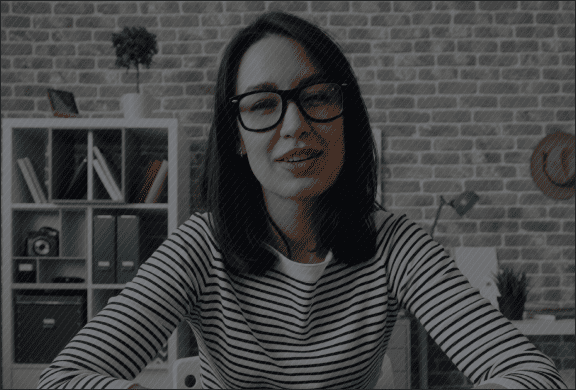
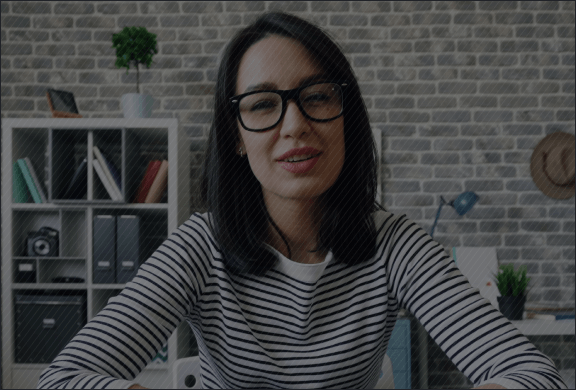
Add ARIA labels to case study links
Improve accessibility by adding aria-label attributes to the three 'Read More' buttons for Case Study One/Two/Three in home.html. Also updates the client testimonials image asset at assets/images/sections/global-images/client-testimonials-img-01.png (binary changed).

diff --git a/home.html b/home.html
@@ -473,7 +473,7 @@
                                                 <p class="highlight-counter-description">Drop in infrastructure cost</p>
                                             </div>
                                         </div>
-                                        <a class="btn btn-big-out-spacing highlight-btn" href="case-study-details.html">
+                                        <a class="btn btn-big-out-spacing highlight-btn" href="case-study-details.html" aria-label="Read more about Case Study One">
                                             <p class="btn-content btn-big-spacing-block btn-small-spacing-inline btn-primary">Read More</p>
                                         </a>
                                     </div>
@@ -498,7 +498,7 @@
                                                 <p class="highlight-counter-description">Drop in infrastructure cost</p>
                                             </div>
                                         </div>
-                                        <a class="btn btn-big-out-spacing highlight-btn" href="case-study-details.html">
+                                        <a class="btn btn-big-out-spacing highlight-btn" href="case-study-details.html" aria-label="Read more about Case Study Two">
                                             <p class="btn-content btn-big-spacing-block btn-small-spacing-inline btn-primary">Read More</p>
                                         </a>
                                     </div>
@@ -523,7 +523,7 @@
                                                 <p class="highlight-counter-description">Drop in infrastructure cost</p>
                                             </div>
                                         </div>
-                                        <a class="btn btn-big-out-spacing highlight-btn" href="case-study-details.html">
+                                        <a class="btn btn-big-out-spacing highlight-btn" href="case-study-details.html" aria-label="Read more about Case Study Three">
                                             <p class="btn-content btn-big-spacing-block btn-small-spacing-inline btn-primary">Read More</p>
                                         </a>
                                     </div>
